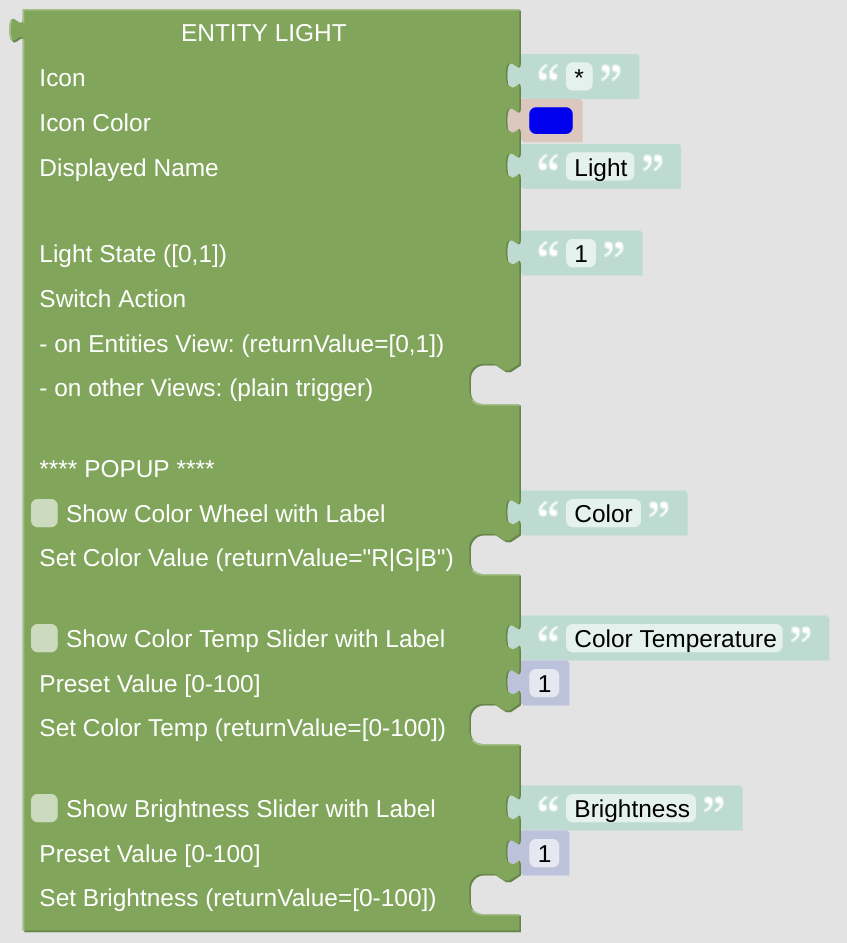
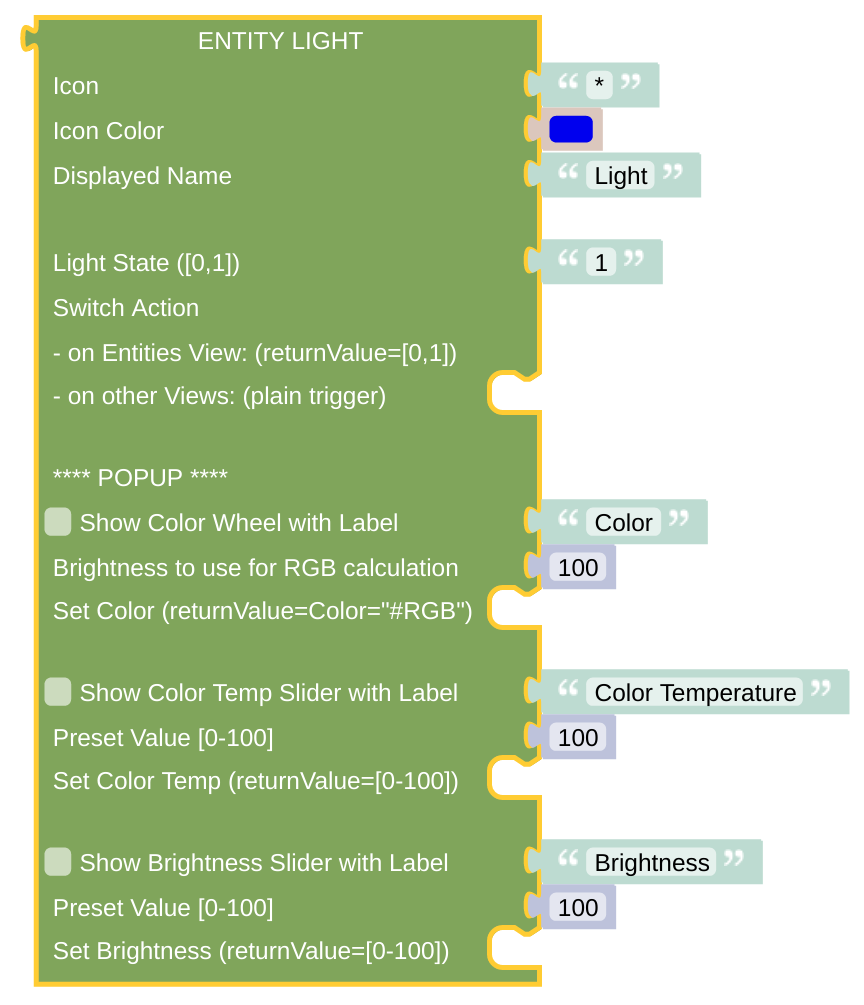
improved Color wheel
improved output of color wheel. Added option to set brightness of
resulting RGB color. Added documentation.

diff --git a/docs/blockLibrary_nspanel_entities_light.md b/docs/blockLibrary_nspanel_entities_light.md
@@ -14,7 +14,7 @@ This is some light switch, which is similar to some [standard switch](blockLibra
 
 ### Popup Configuration
 
-- Enable a Color Wheel if you like. Once you change the color, some action is triggered. The [*returnValue* variable](blockLibrary_nspanel_helpers_returnValue.md) will contain the selected color, RGB-Values separated by '|'.
+- Enable a Color Wheel if you like. Once you change the color, some action is triggered. To calculate the resulting *RGB Color* value, you need to supply some brightness. Take it from to-be-controlled *Item* itself (by using the same input as for the Brightness Slider preset) or just leave it at full brightness value (100). The [*returnValue* variable](blockLibrary_nspanel_helpers_returnValue.md) will contain the selected color, as a usual RGB-String like '#ffa3c2'. It can be directly used or converted to HSB with the related Color library tool.
 - Enable a Color Temperature Slider. You can give the slider a preset value and will get the selected value in the [*returnValue* variable](blockLibrary_nspanel_helpers_returnValue.md) for the change action.
 - Enable a Brightness Slider. You can give the slider a preset value and will get the selected value in the [*returnValue* variable](blockLibrary_nspanel_helpers_returnValue.md) for the change action.<br clear="right"/>
 
